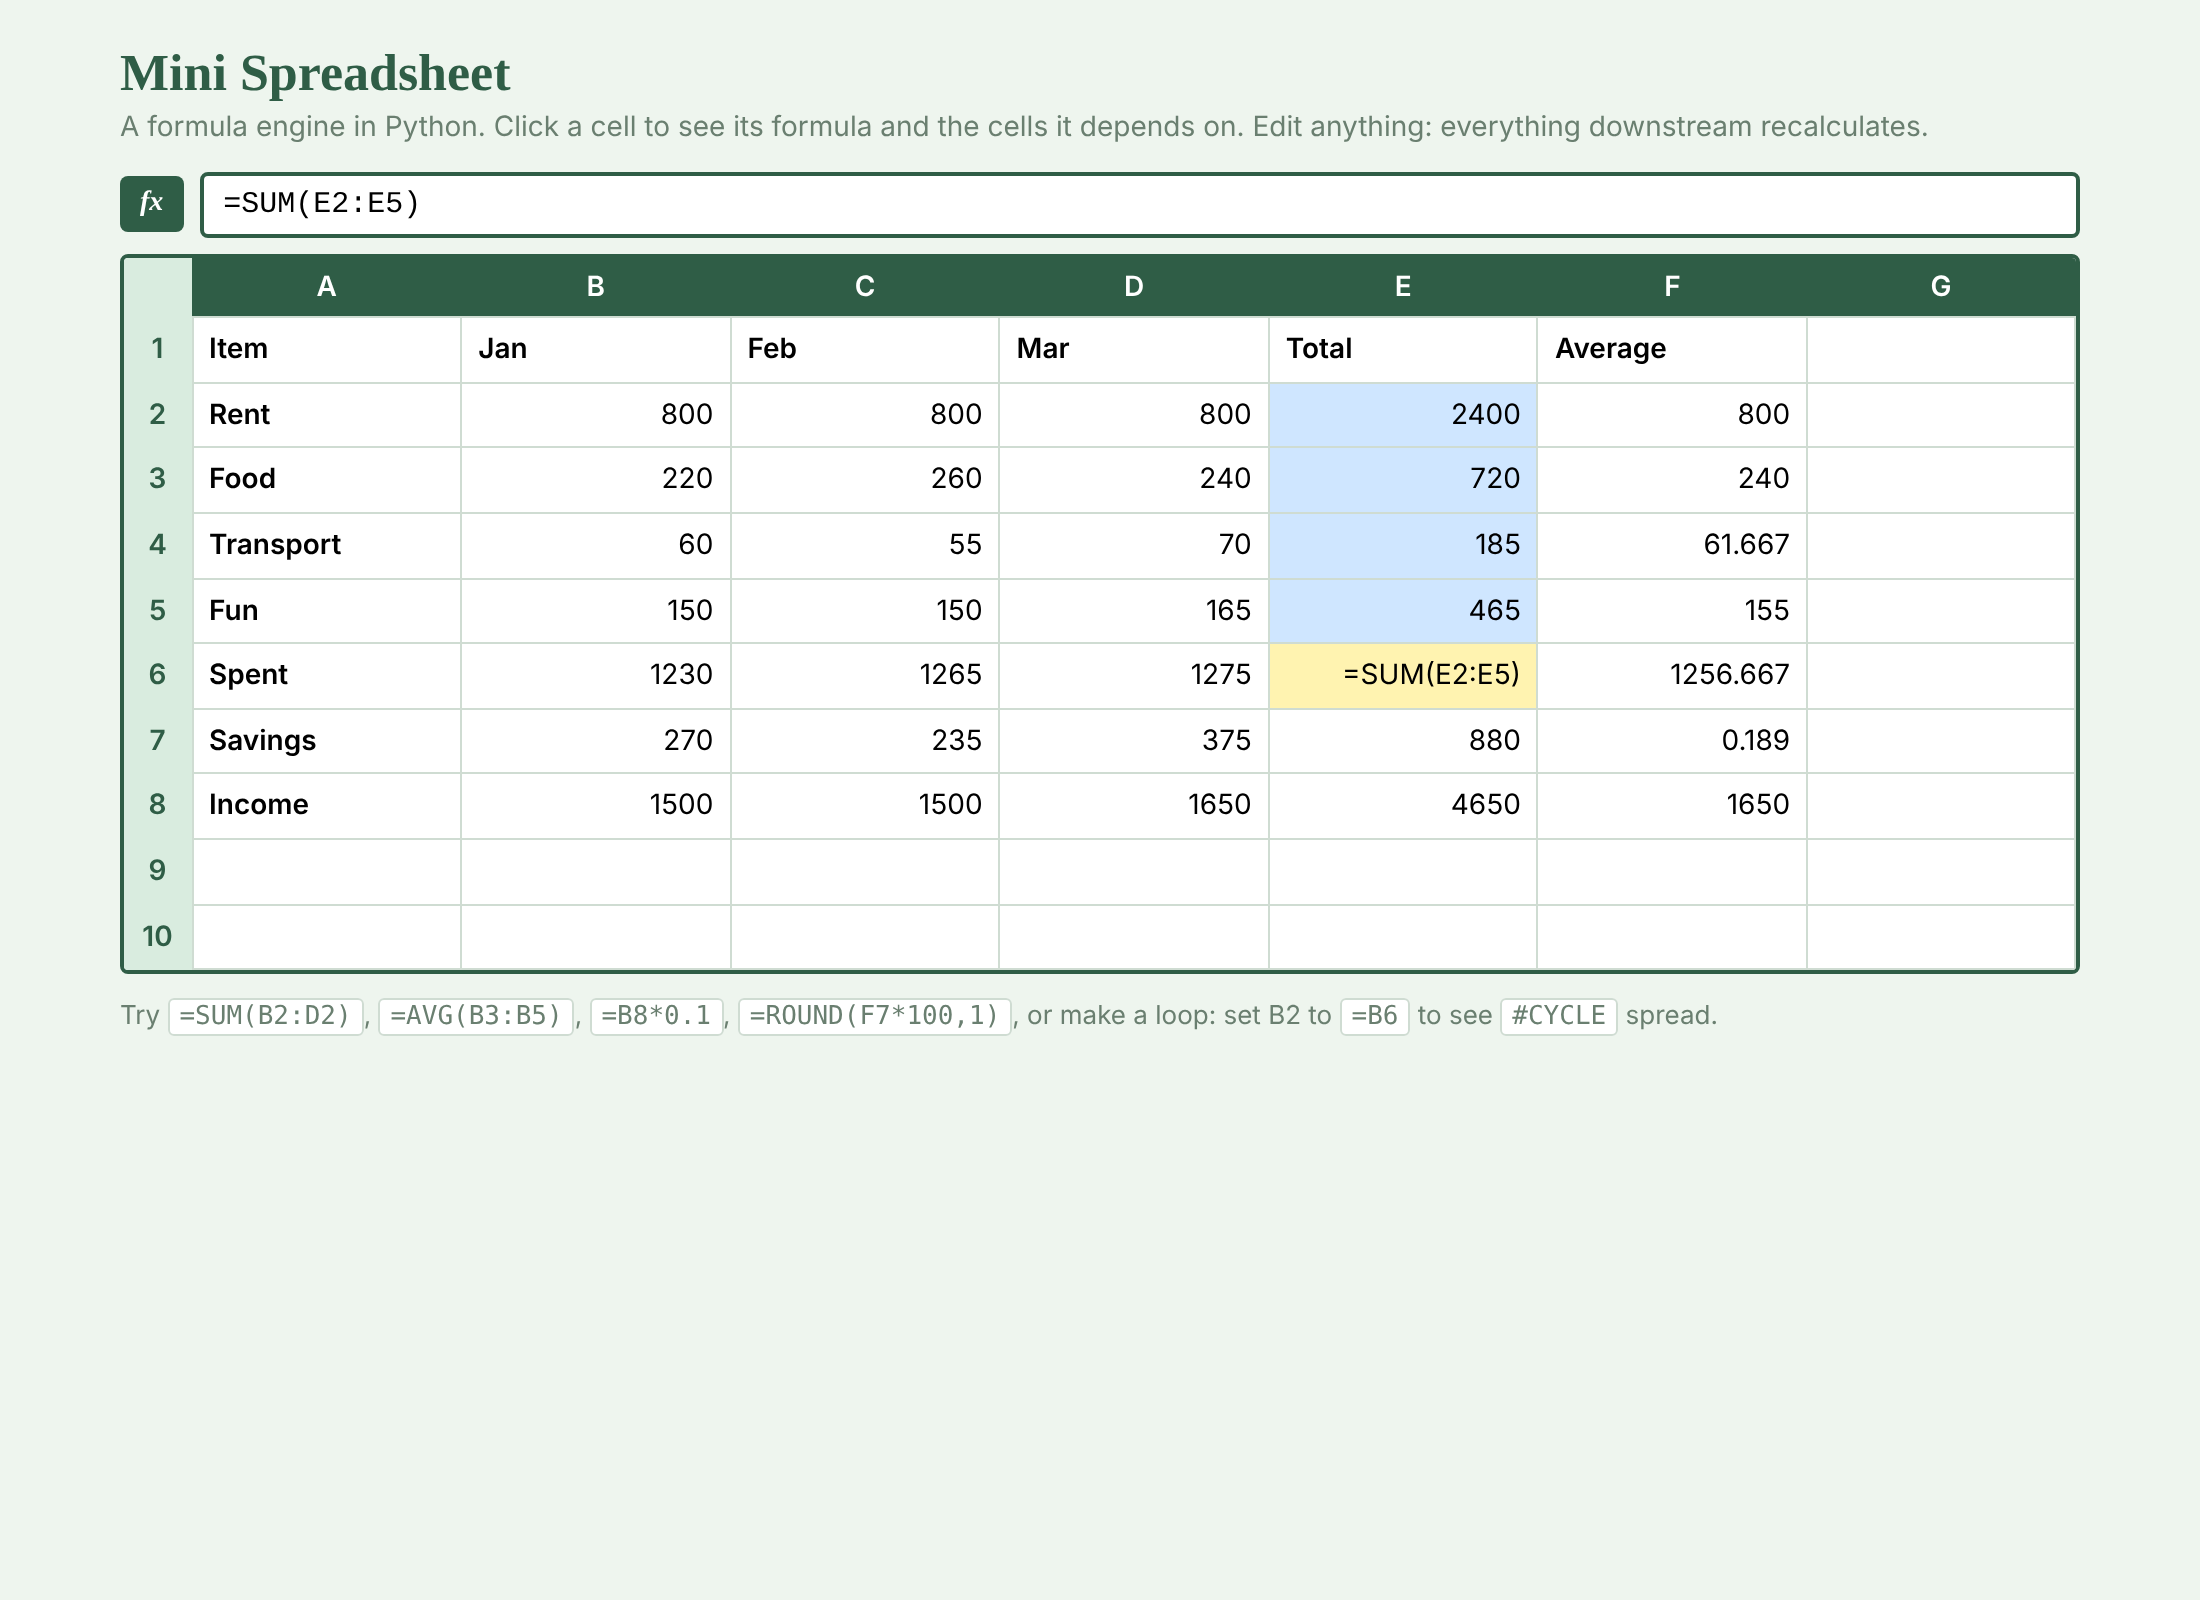
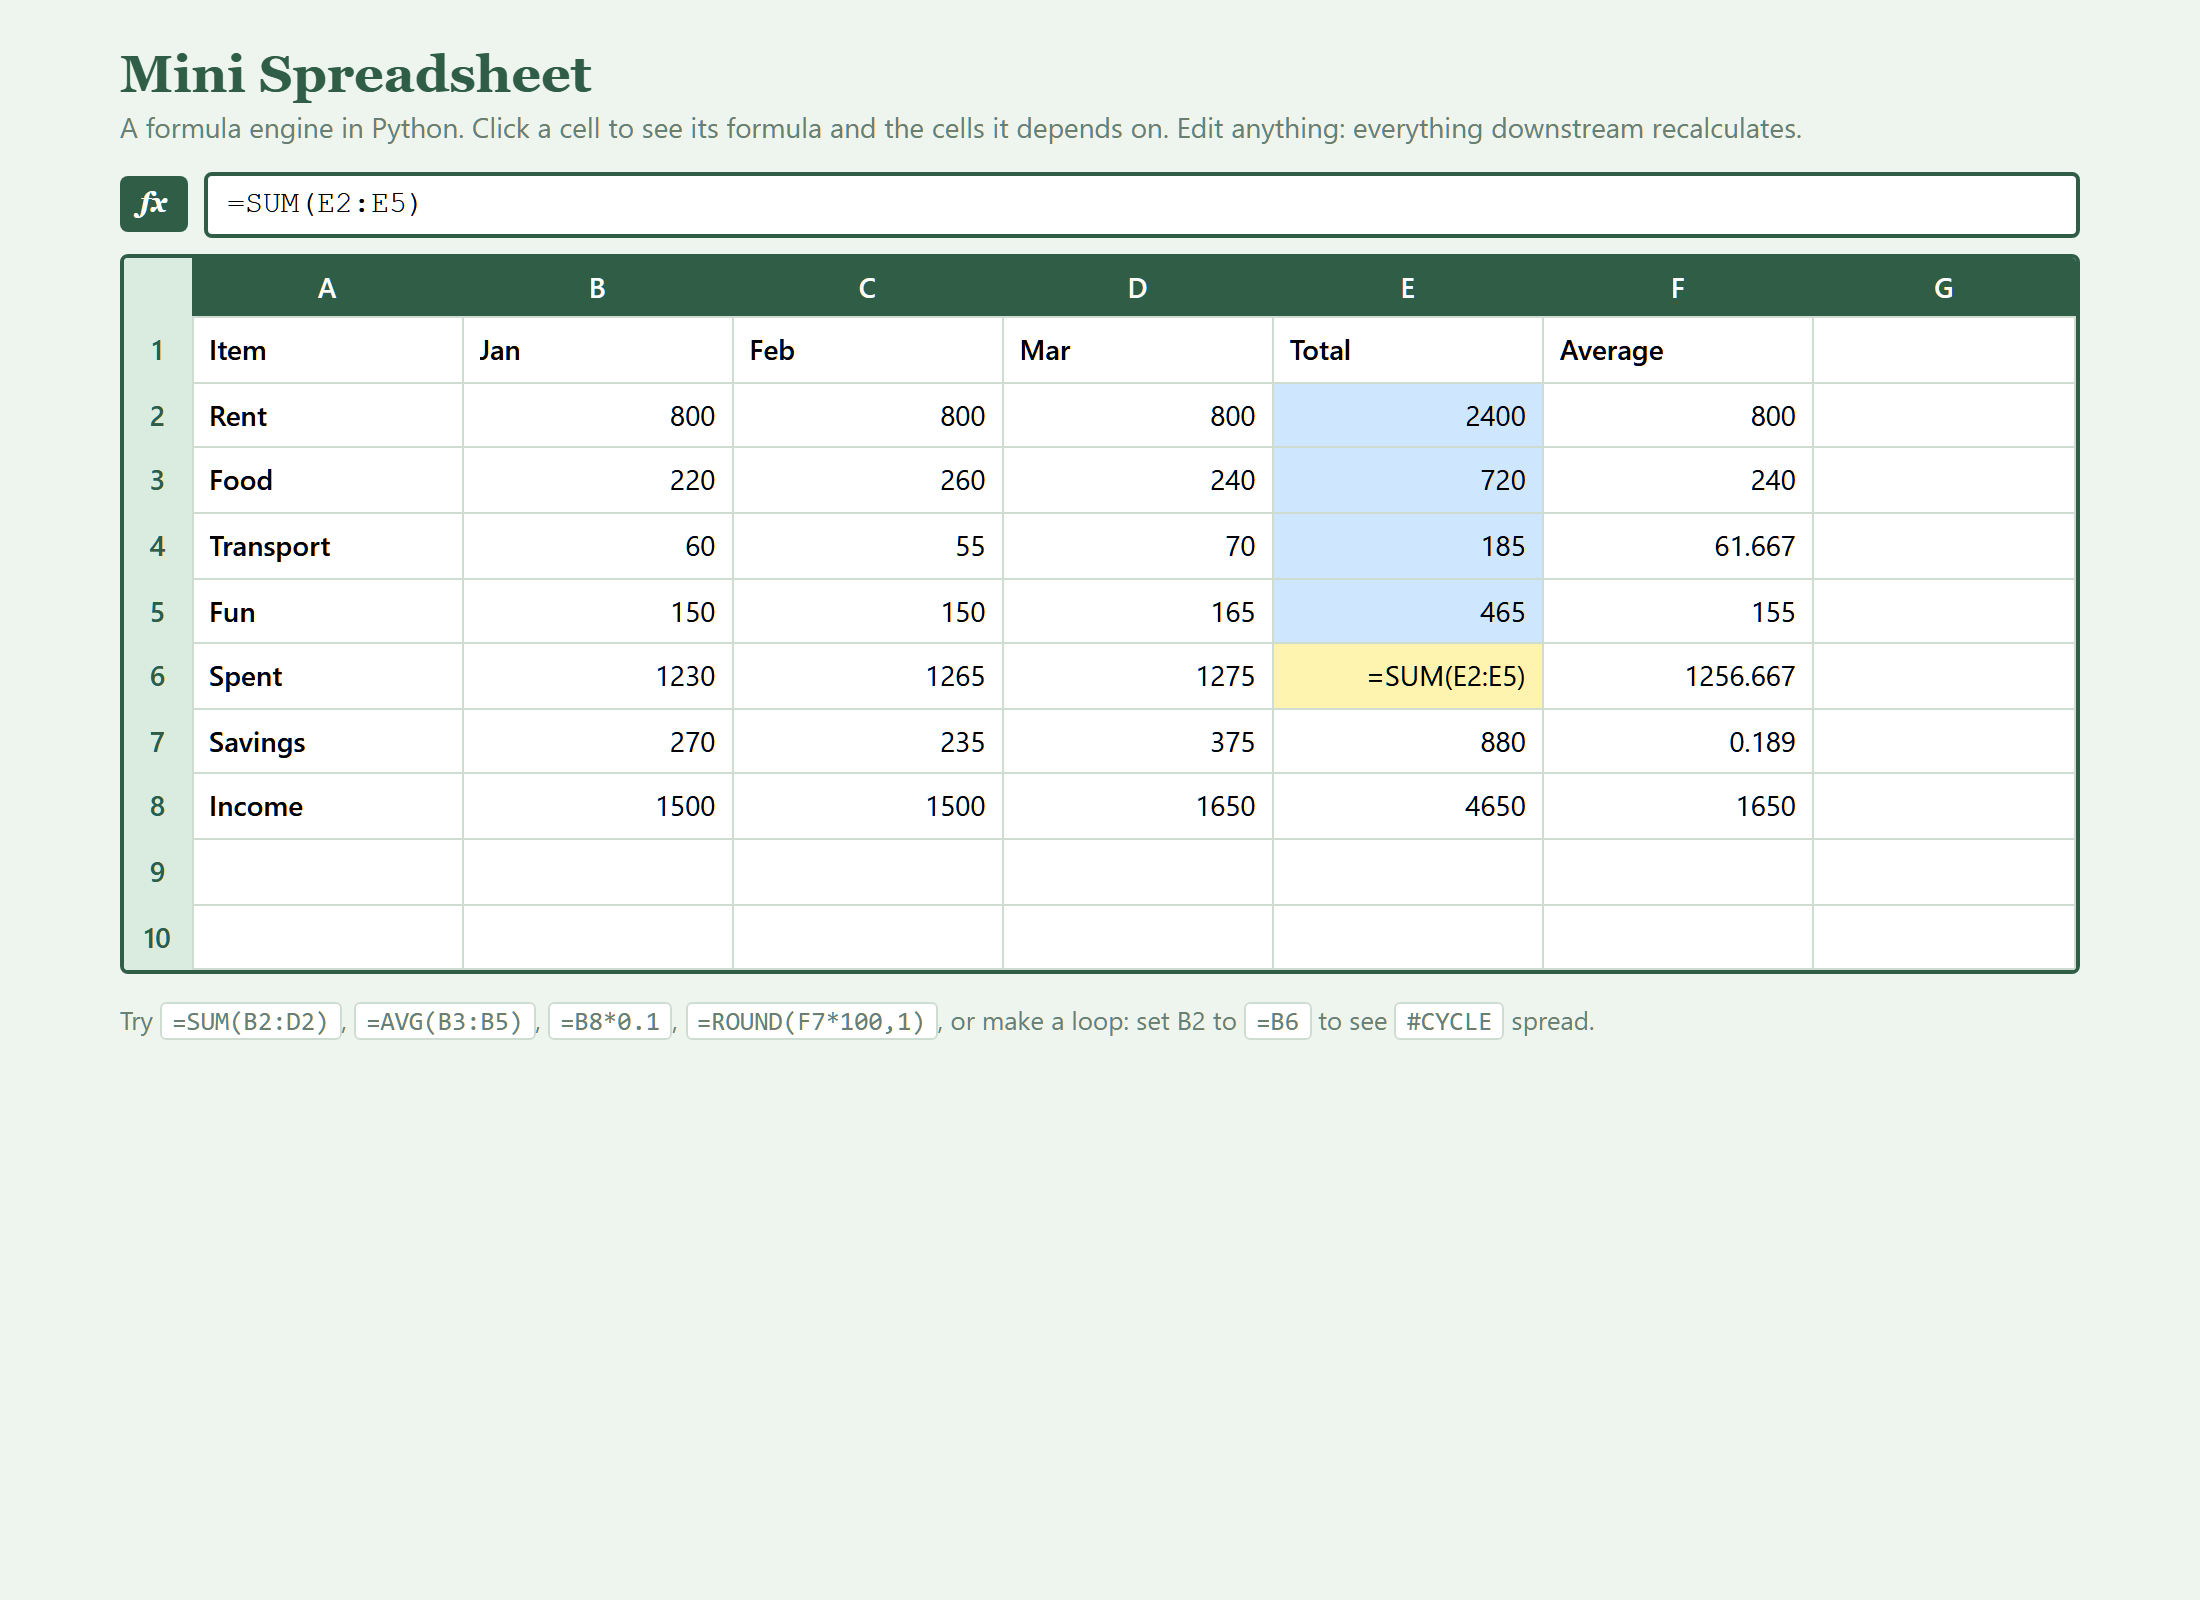
Improve mini-spreadsheet

diff --git a/projects/mini-spreadsheet/static/index.html b/projects/mini-spreadsheet/static/index.html
@@ -9,15 +9,16 @@ main{max-width:980px;margin:auto}h1{font:700 26px "Georgia",serif;margin:0 0 2px
 td{border:1px solid #cfdcd2;padding:0;min-width:104px}td input{width:100%;border:0;padding:6px 8px;font:inherit;background:transparent;outline:none;text-align:right}td.t input{text-align:left;font-weight:600}
 td.sel{background:var(--sel)}td.dep{background:var(--dep)}td.err input{color:var(--err);font-weight:700}
 .m{margin-top:12px;color:var(--mut);font-size:13px}code{background:#fff;padding:1px 5px;border-radius:3px;border:1px solid #cfdcd2}
+@media (prefers-color-scheme: dark){:root{--bg:#1c1b19;--ink:#eeeeea}h1{color:#8fd1a8}p{color:#b9c9bf}}
 </style></head><body><main>
 <h1>Mini Spreadsheet</h1><p class="s">A formula engine in Python. Click a cell to see its formula and the cells it depends on. Edit anything: everything downstream recalculates.</p>
 <div class="fx"><b>fx</b><input id="fb" placeholder="select a cell" autocomplete="off"></div>
-<div class="wrap"><table id="tb"></table></div>
+<div class="wrap"><table id="tb"></table></div><p id="sheeterr" role="status"></p>
 <p class="m">Try <code>=SUM(B2:D2)</code>, <code>=AVG(B3:B5)</code>, <code>=B8*0.1</code>, <code>=ROUND(F7*100,1)</code>, or make a loop: set B2 to <code>=B6</code> to see <code>#CYCLE</code> spread.</p></main>
 <script>
 const $=i=>document.getElementById(i);const COLS='ABCDEFG'.split(''),ROWS=[1,2,3,4,5,6,7,8,9,10];let cells={},V={},deps={},sel=null;
 const fmt=v=>typeof v==='number'?(Number.isInteger(v)?String(v):String(+v.toFixed(3))):v;
-async function calc(){const r=await fetch('/evaluate',{method:'POST',headers:{'Content-Type':'application/json'},body:JSON.stringify({cells})});const j=await r.json();V=j.values;deps=j.deps;paint()}
+async function calc(){try{const r=await fetch('/evaluate',{method:'POST',headers:{'Content-Type':'application/json'},body:JSON.stringify({cells})});const j=await r.json();V=j.values;deps=j.deps;paint()}catch(e){$('sheeterr').textContent='Could not recalculate the sheet. Try again.'}}
 function paint(){const d=new Set(deps[sel]||[]);
 document.querySelectorAll('td[data-c]').forEach(td=>{const k=td.dataset.c,i=td.firstChild,v=V[k];
 if(document.activeElement!==i)i.value=v===undefined?'':fmt(v);
@@ -29,5 +30,5 @@ i.onfocus=()=>{sel=k;i.value=cells[k]||'';$('fb').value=cells[k]||'';paint()};
 i.onblur=()=>{i.value=V[k]===undefined?'':fmt(V[k])};
 i.oninput=()=>{if(i.value==='')delete cells[k];else cells[k]=i.value;$('fb').value=i.value;calc()}})}
 $('fb').oninput=()=>{if(!sel)return;if($('fb').value==='')delete cells[sel];else cells[sel]=$('fb').value;const i=document.querySelector(`td[data-c="${sel}"] input`);i.value=$('fb').value;calc()};
-fetch('/sample').then(r=>r.json()).then(d=>{cells=d.cells;build();calc().then(()=>{document.querySelector('td[data-c="E6"] input').focus()})});
+fetch('/sample').then(r=>r.json()).then(d=>{cells=d.cells;build();calc().then(()=>{document.querySelector('td[data-c="E6"] input').focus()})}).catch(()=>{$('sheeterr').textContent='Sample sheet is unavailable right now.'});
 </script></body></html>

diff --git a/projects/mini-spreadsheet/tests/test_all.py b/projects/mini-spreadsheet/tests/test_all.py
@@ -91,3 +91,9 @@ def test_api():
     assert r["values"]["E6"] == 3770
     assert c.post("/evaluate", json={"cells": {"ZZ": "1"}}).status_code == 422
     assert c.get("/").status_code == 200
+
+
+def test_index_has_sheet_error_texts_and_dark_scheme():
+    page = c.get("/").text
+    assert "Could not recalculate the sheet" in page and "Sample sheet is unavailable" in page
+    assert "prefers-color-scheme: dark" in page
